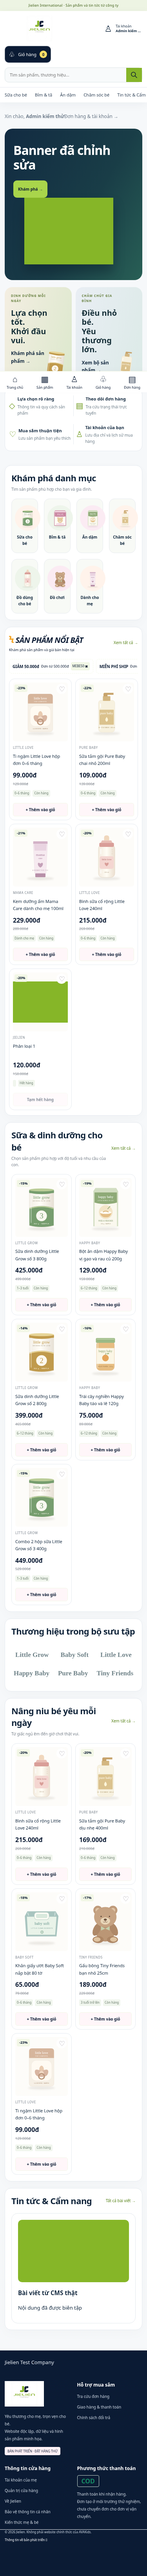
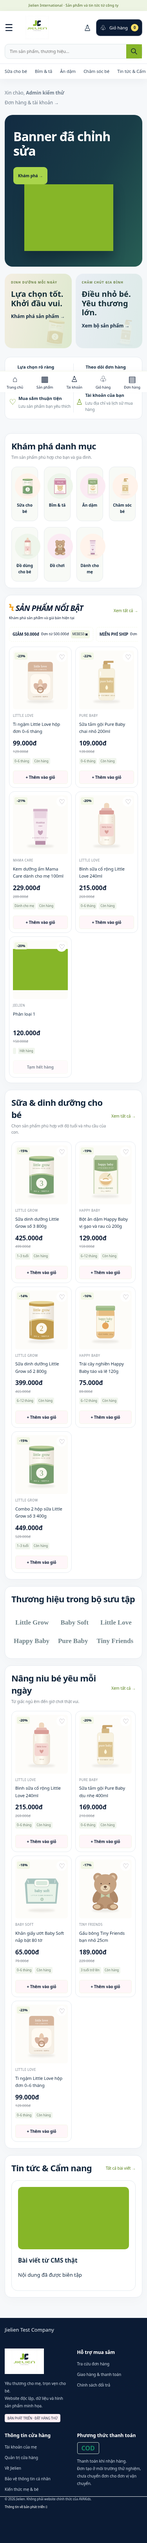
fix(ui): refine mobile header and keep visibility assertion format-independent

diff --git a/public/style.css b/public/style.css
@@ -2894,3 +2894,33 @@ body {
 .site-footer .footer-grid a:not(.logo) {
   color: #cbd5e1;
 }
+@media (max-width: 600px) {
+  .header-main .icon-button {
+    color: #0b1b34;
+  }
+  .header-main .brand-logo {
+    width: 88px;
+    height: 60px;
+  }
+  .header-main .account-link > span:last-child {
+    display: none;
+  }
+  .header-main .cart-link {
+    min-height: 40px;
+  }
+  .hero-poster h2,
+  .hero-poster span,
+  .hero-poster small {
+    max-width: 100%;
+  }
+  .hero-poster img {
+    opacity: 0.25;
+    z-index: 0;
+  }
+  .account-invitation {
+    display: flex;
+    flex-direction: column;
+    align-items: flex-start;
+    gap: 6px;
+  }
+}

diff --git a/docs/COMMERCE_RELEASE.md b/docs/COMMERCE_RELEASE.md
@@ -1,6 +1,6 @@
-# Jielien International — bản nâng cấp commerce/CMS để review
+# Jielien International — bản demo commerce/CMS
 
-Nhánh `feature/jielien-commerce-cms`, dựa trên `8b460eb` (bao gồm nâng cấp LAN chưa merge main). Không tự merge, public hoặc thay database công ty. Bộ đặc tả gốc giữ nguyên tại `docs/commerce-spec`; task theo dõi tại `specs/001-jielien-commerce/tasks.md`. Spec Kit chính thức đã cài; xem `SPEC_KIT_SETUP.md`.
+Các nhánh LAN, commerce/CMS và phân quyền Admin đã được hợp nhất vào `main` theo yêu cầu chủ dự án. Bản nâng cấp giao diện tiếp nối được ghi tại [INTERFACE_REFRESH.md](INTERFACE_REFRESH.md); chạy từ `main` theo [DEMO_QUICKSTART.md](DEMO_QUICKSTART.md). Không tự xuất bản website công khai hoặc thay database máy công ty. Bộ đặc tả gốc giữ nguyên tại `docs/commerce-spec`; task theo dõi tại `specs/001-jielien-commerce/tasks.md`. Spec Kit chính thức đã cài; xem `SPEC_KIT_SETUP.md`.
 
 ## Chức năng có thể dùng
 
